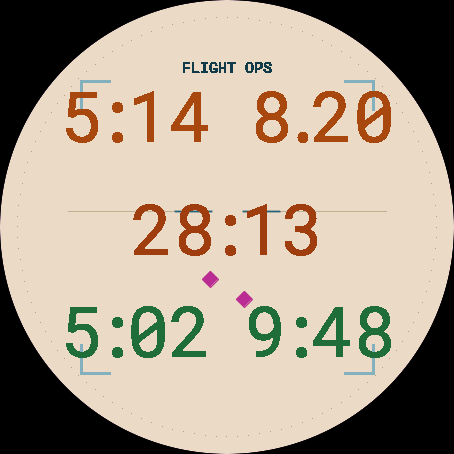
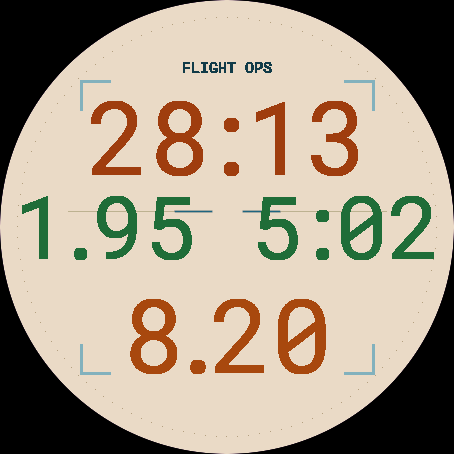
Release prep v0.2.0: 4-field compass screenshots + store copy (#56)
* Release prep v0.2.0: 4-field compass screenshots + store copy

Packages the compass work (#46, #47, #49) as the v0.2.0 store release.

Screenshots: all 8 theme x mode faces recaptured on fr965 at the new
4-field compass default, using the fixed store pose extended with a lap
distance consistent with it (9:48 at 5:02/km = 1.95 km). Captured in a
throwaway worktree with theme/mode forced in code rather than via
properties.xml, which sidesteps the simulator's persisted-app-data trap
that store/README.md warns about. Crop offset re-verified by the
README's own light-vs-dark difference method: still 454x454+114+262.

Copy: CHANGELOG [Unreleased] becomes [0.2.0], reordered so the compass
and the default-layout flip lead. description.txt gains its 0.2.0
"What's changed" entry, and the evergreen copy is retired of the old
5-field story - the at-a-glance list now names the compass's actual
default metrics, and the "1 to 5 fields" bullet says what the default
now is. Both breaking changes are stated in both files: the layout
default moves 5 -> 4, and customised field choices reset once.

description.txt is 3993/4000 chars; the 0.1.1 history line was dropped
to fit.

Refs #50

* Cut store history to two entries; restore untrimmed 0.2.0 copy

The listing's "What's changed" history duplicated CHANGELOG.md, and
carrying all five entries had walked description.txt to 3993/4000 - seven
characters under a hard store cap, which is not headroom.
[…]

diff --git a/CHANGELOG.md b/CHANGELOG.md
@@ -8,8 +8,22 @@ built `.iq` attached for quick rollback — see [docs/releasing.md](docs/releasi
 
 There is no version field in the Connect IQ manifest; the git tag is the version.
 
-## [Unreleased]
+## [0.2.0] - 2026-08-31
 
+- The 4-field layout is now arranged as a compass: one large value at the top,
+  one at each side, and one at the bottom, with much bigger type than the old
+  four-corner grid.
+- **New installs start on the 4-field compass** instead of the 5-field grid.
+  Anyone who never changed the layout setting moves from a 5-field screen to a
+  4-field one on update; the 5-field grid is still one setting away in Garmin
+  Connect.
+- Each layout now has its own field configuration with its own defaults:
+  choosing metrics for one layout no longer changes any other. The 4-field
+  compass starts as Timer / Lap pace / Distance / Lap distance.
+- **One-time reset:** because the per-layout field settings changed shape,
+  custom field choices from earlier versions revert to the new defaults — set
+  them again in Garmin Connect. Theme, mode, layout and label settings are kept.
+  There is no migration shim; this was an accepted, deliberate trade-off.
 - Light modes now tell the value roles apart by colour. Phosphor light was the
   worst case: its hero, session and lap colours were two near-identical teals,
   so every value on the face read as one colour — it is the only palette that
@@ -18,22 +32,10 @@ There is no version field in the Connect IQ manifest; the git tag is the version
   Bulkhead light give their session values the hero amber, so the compass reads
   its top and bottom as one pair against contrasting sides — the arrangement
   Cockpit light already had. Dark modes are unchanged.
-
-- Times past an hour keep their size on the 4-, 3-, 2- and 1-field layouts:
-  the hours now render as a small prefix (`1:` beside a full-size `00:04`)
-  instead of the whole value shrinking to fit. The 5-field layout already did
-  this.
-- The 4-field layout is now arranged as a compass: one large value at the
-  top, one at each side, and one at the bottom, with much bigger type than
-  the old four-corner grid. Times past an hour keep their size there too.
-- Each layout now has its own field configuration with its own defaults:
-  choosing metrics for one layout no longer changes any other. The 4-field
-  compass starts as Timer / Lap pace / Distance / Lap distance.
-- New installs start on the 4-field compass layout instead of the 5-field
-  grid.
-- One-time reset: because the field settings changed shape, custom field
-  choices from earlier versions revert to the new defaults — set them again
-  in Garmin Connect. Theme, mode, layout and label settings are kept.
+- Times past an hour keep their size on the 4-, 3-, 2- and 1-field layouts: the
+  hours now render as a small prefix (`1:` beside a full-size `00:04`) instead
+  of the whole value shrinking to fit. The 5-field layout already did this, and
+  the 4-field compass picked it up once its slots were widened.
 
 ## [0.1.5] - 2026-08-06
 

diff --git a/store/README.md b/store/README.md
@@ -6,6 +6,19 @@ Assets for the Connect IQ store listing.
 Listing copy (plain text, cut-and-paste). Its tail carries the **What's changed** release
 notes — there is no separate changelog in the listing.
 
+Two constraints, neither enforced by anything that runs:
+
+- **4000-character hard cap** (the store's). Check it and print the number:
+  `wc -m store/description.txt`.
+- **No `>` character** — the store rejects it.
+
+**Keep only the two most recent versions** under "What's changed": the current
+release and the one before it. The full history lives in
+[`CHANGELOG.md`](../CHANGELOG.md), which is strictly richer than the store copy
+ever was, so trimming here loses nothing. Adding each release without dropping
+the oldest is what walks the file into the cap — as of 0.2.0 it had reached
+3993/4000 with five entries, versus 2923 with two.
+
 ## `hero.png` — 1440×720 store banner
 Dark banner: the FLIGHTDECK wordmark + tagline over the three hero faces
 (Cockpit Dark, Bulkhead Dark, Bridge Light). Rebuild from the captures in
